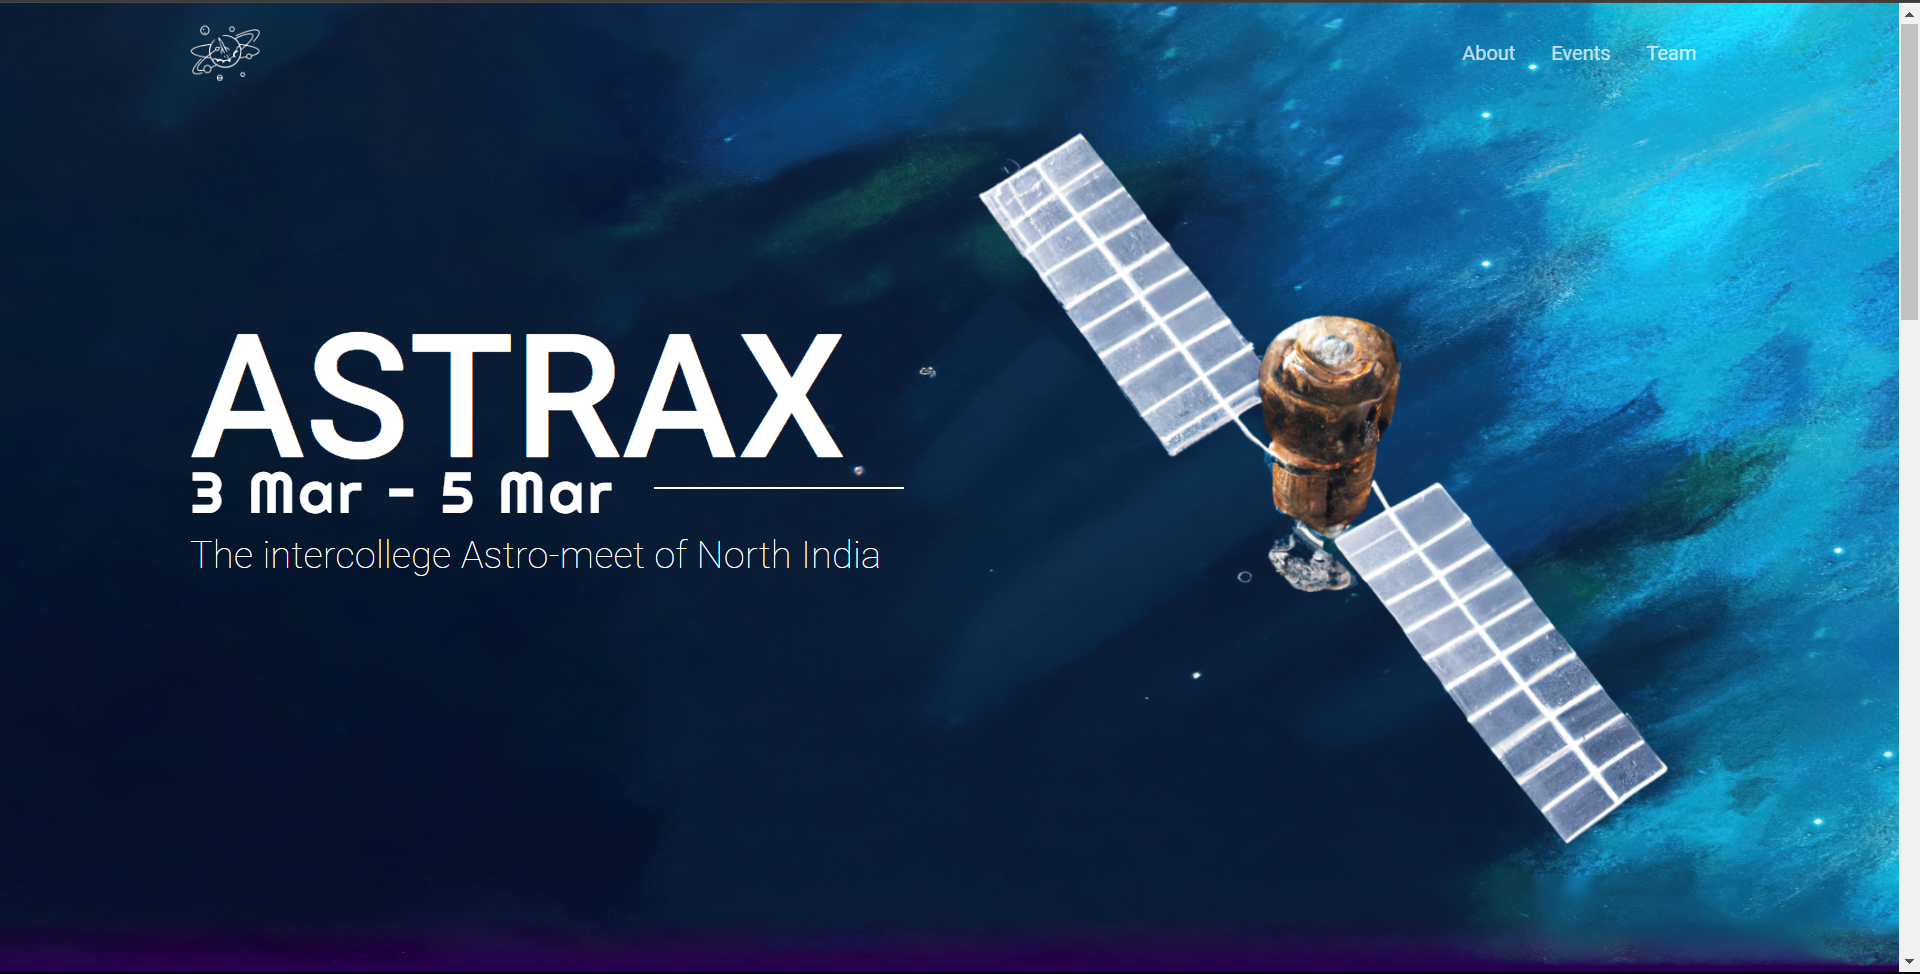
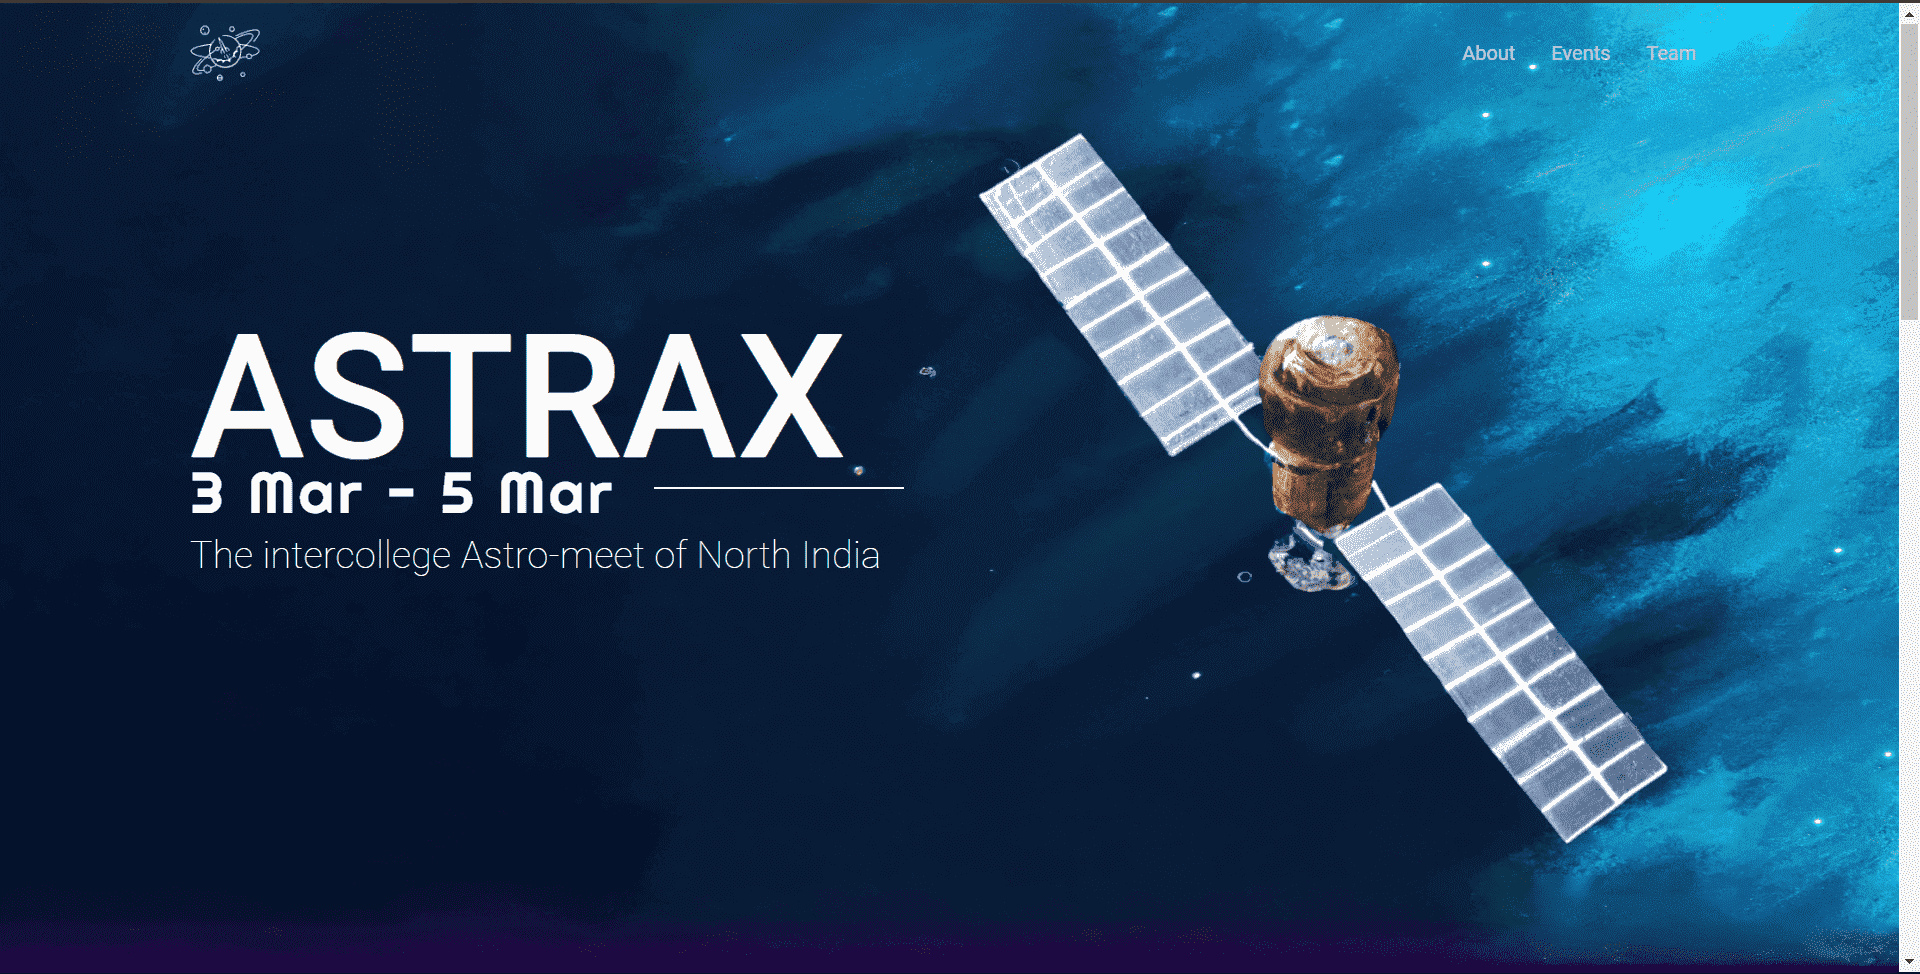
some more changes

diff --git a/src/components/Skill.js b/src/components/Skill.js
@@ -11,17 +11,19 @@ export default function Skill(props) {
   const themecolor = useSelector((state)=>state.changeThetheme);
   return (
    <>
-   <div id="skillpage">
-    <div className="skillpage"style={{color:`${themecolor.textcolor}`}}>
+   <div className="skillpage text-center text"style={{color:`${themecolor.textcolor}`}}>
     <p className="pageinfo"style={{color:`${themecolor.headcolor}`}}> My Experience</p>
     </div>
+   <div id="skillpage">
+    
     <div id="bigscreenexp">
      <div className="row">
-      <div className="col-lg-8 col-md-8 col-sm-12 align-self-end">
-            <div className="row mb-4 mt-2 m-5 text-center" style={{color:`${themecolor.headcolor}`, fontWeight: 'bold'}} >
-              SOME TECHNOLOGIES I'VE WORKED WITH
+      <div className="col-lg-8 col-md-8 col-sm-12">
+            <div className="row mb-4 mt-2 text-center" style={{color:`${themecolor.headcolor}`, fontWeight: 'bold'}} >
+              <p className='text-lg-start mx-lg-5' style={{marginBottom:"-1%"}}> SOME TECHNOLOGIES I'VE WORKED WITH </p>
+              
             </div>
-            <div className="row   row-cols-1 row-cols-sm-2 row-cols-lg-5 row-cols-md-3 gy-lg-3">
+            <div className="row   row-cols-1 row-cols-sm-2 row-cols-lg-5 row-cols-md-3 gy-lg-3 mx--5">
           {Experiencesdata.map((item, index) => (
         <Experiencecard key={index} item={item} />
       ))}
@@ -29,7 +31,9 @@ export default function Skill(props) {
          </div>
   
       <div className="col-lg-4 col-md-4 col-sm-12 align-self-start" >
-        <div className="row mb-4 mt-2 m-5 d-flex justify-content-center align-items-center" style={{color:`${themecolor.headcolor}`, fontWeight: 'bold',textAlign: 'center'}}>WHERE I'VE WORKED</div>
+        <div className="row mb-4 mt-2 m-5 d-flex justify-content-center align-items-center" style={{color:`${themecolor.headcolor}`, fontWeight: 'bold',textAlign: 'center'}}>
+          <p className='text-center' style={{marginBottom:"-1%"}}> WHERE I'VE WORKED </p>
+          </div>
         <div className="row">
         {workdata.map((item, index) => (
         <Workcard key={index} item={item} />

diff --git a/src/components/Contact.js b/src/components/Contact.js
@@ -138,6 +138,12 @@ export default function Contact() {
   // `
   return (
     <>
+    <div className="skillpage text-center text"style={{color:`${themecolor.textcolor}`}}>
+    <p className="pageinfo"style={{color:`${themecolor.headcolor}`}}>Let's Connect</p>
+    <h6 >
+    Do you speak Hindi? It's ok if you don't, I speak English too.
+    </h6>
+    </div>
       <div className="container-fluid mx-auto">
         <div className="first">
           <div
@@ -146,23 +152,12 @@ export default function Contact() {
           >
             <div className="row mx-auto">
               <div className="col-md-6 col-12">
-                <div className="text">
-                  <p
-                    className="pageinfo"
-                    style={{ color: `${themecolor.headcolor}` }}
-                  >
-                    Contact
-                  </p>
-                  <h6 className="mt-100" style={{ marginLeft: "4px" }}>
-                    Do you speak Hindi? It's ok if you don't, I speak English
-                    too.
-                  </h6>
-                </div>
                 <form
                   ref={form}
                   onSubmit={sendmail}
                   id="form"
-                  style={{ marginTop: "-15px" }}
+                  className="contactform"
+                  style={{ marginTop: "-25px" }}
                 >
                   <div className="container-fluid">
                     <div className="row">

diff --git a/src/style/contact.css b/src/style/contact.css
@@ -13,7 +13,7 @@
     justify-content: space-around;
 }
 .rightrowup{
-    margin-top: 90px;
+    margin-top: 30px;
 }
 .rightrowdown{
     margin-bottom: 100px;
@@ -27,11 +27,11 @@
     margin-top:"-13px"
     /* margin-top: -10px; */
 }
-.text{
-   margin-left: -30px;
+.text .pageinfo{
+   /* margin-left: -30px; */
+   /* text-align: start; */
 }
 #form{
-   
     margin-left: -35px;
 }
 .title{
@@ -82,10 +82,14 @@
     
 }
 
+
 @media  screen and (max-width:600px) {
     .text .pageinfo{
         font-size: 20px;
         font-weight: 800;
+    }
+    .text{
+        margin-left: 0px;
     }
 }
 @media  screen and (max-width:780px) {
@@ -94,6 +98,7 @@
    }
    .text .pageinfo{
     font-size: 30px;
+    text-align: center;
    }
    .rightrow .rightrowdown,.rightrowup{
     text-align: center;
@@ -112,6 +117,7 @@
     text-align: center;
     margin: 0px;
     margin-bottom: 10px;
+    margin-left: 0px;
   }
   .rightrowup{
     margin-top: 40px;
@@ -121,6 +127,10 @@
 .svgvertical{
     z-index: 12 !important;;
 }
+
+/* @media screen {
+    
+} */
 /* .button .button2 .form-btn-contact::after{
     height: 100%;
     left: -35%;

diff --git a/src/components/Project.js b/src/components/Project.js
@@ -22,12 +22,16 @@ export default function Project() {
   }
   return (
     <> 
+    <div className="skillpage text-center text"style={{color:`${themecolor.textcolor}`}}>
+    <p className="pageinfo"style={{color:`${themecolor.headcolor}`}}>My Work</p>
+    <h6 >
+      More comming soon . .
+    </h6>
+    </div>
     <div style={{marginLeft:"-27px"}}>
     <div className="mb-lg-5 mb-md-3 mb-sm-2">
-    <div className="skillpage"style={{color:`${themecolor.textcolor}`}}>
-    <p className="pageinfo"style={{color:`${themecolor.headcolor}`}}> My Work</p>
-    </div>
-    <div className="row g-3 d-flex justify-content-center">
+    
+    <div className="row g-3 d-flex justify-content-center mt-2">
     {projectdata.map((item, index) => (
         <Projectcard key={index} item={item} themecolor={themecolor} headcolor={themecolor.headcolor}/>
       ))}

diff --git a/src/datas/projectnewdata.js b/src/datas/projectnewdata.js
@@ -60,6 +60,15 @@ export const projectdata = [
       viewcode: "https://github.com/Kaushik1216/credit-managment-system",
     }
     ,
+      {
+      projectCount: 3,
+      name: "Joomla Article Filter Module",
+      projectInfo: "A Joomla module (extension) that filters articles on a website by article category, publish,modified,created in Ascending or Dscending order, restricts the number of articles in the module, and allows users to display different information about the articles they want to showcase on the list",
+      image:"images/jafm.png",
+      tech: ["JoomlaFramework" , "PHP","OOPS"],
+      viewcode: "https://github.com/Kaushik1216/Joomla_module_articles_filter",
+    }
+    ,
     {
       projectCount: 3,
       name: "WebNews",

diff --git a/src/components/About.js b/src/components/About.js
@@ -6,10 +6,12 @@ export default function About() {
   const themecolor = useSelector((state) => state.changeThetheme);
   return (
     <>
+    <div className="skillpage text-center text"style={{color:`${themecolor.textcolor}`}}>
+    <p className="pageinfo"style={{color:`${themecolor.headcolor}`}}>About Me</p>
+    <h6 >
+    </h6>
+    </div>
       <div id="about">
-        <p className="topic" style={{ color: `${themecolor.headcolor}` }}>
-          About Me
-        </p>
         <div className="row mx-auto">
           <div className="col-md-6 col-sm-12" id="smallimgdiv">
             <div id="smallimg">

diff --git a/src/App.js b/src/App.js
@@ -29,7 +29,8 @@ function App() {
       link.setAttribute('href', 'faviconlight.png');
     } else {
       setmode("dark")
-      document.body.style.background="#061119";
+      document.body.style.background="#091E2D";
+      // document.body.style.background="#061119";
       // document.body.style.background="#0B1D2A";
       // const favicon = document.getElementById("favicon");
       // favicon.href="%PUBLIC_URL%/favicondark.png" ;
